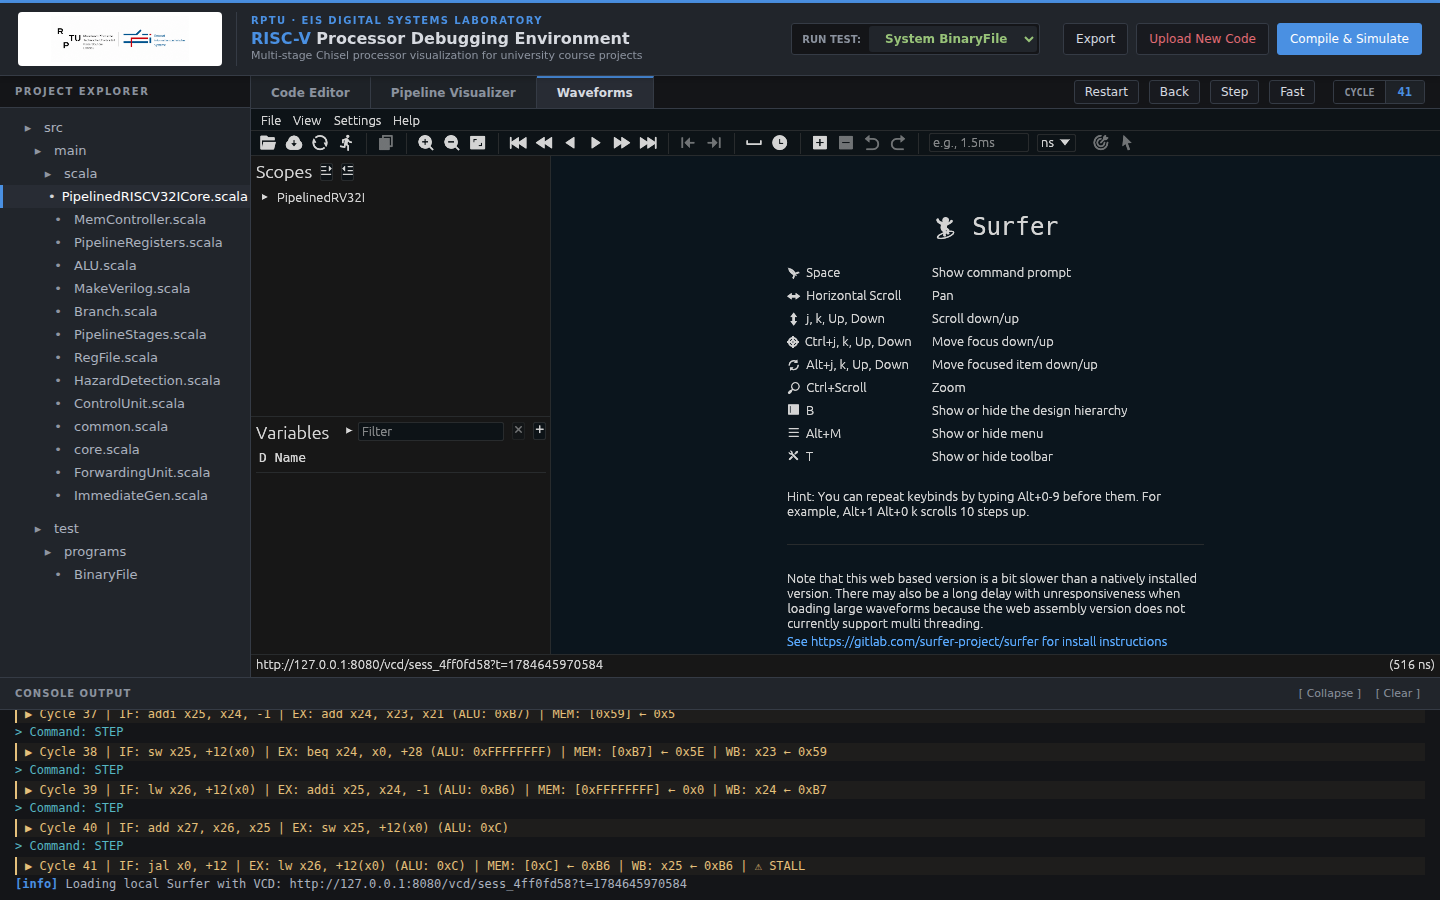
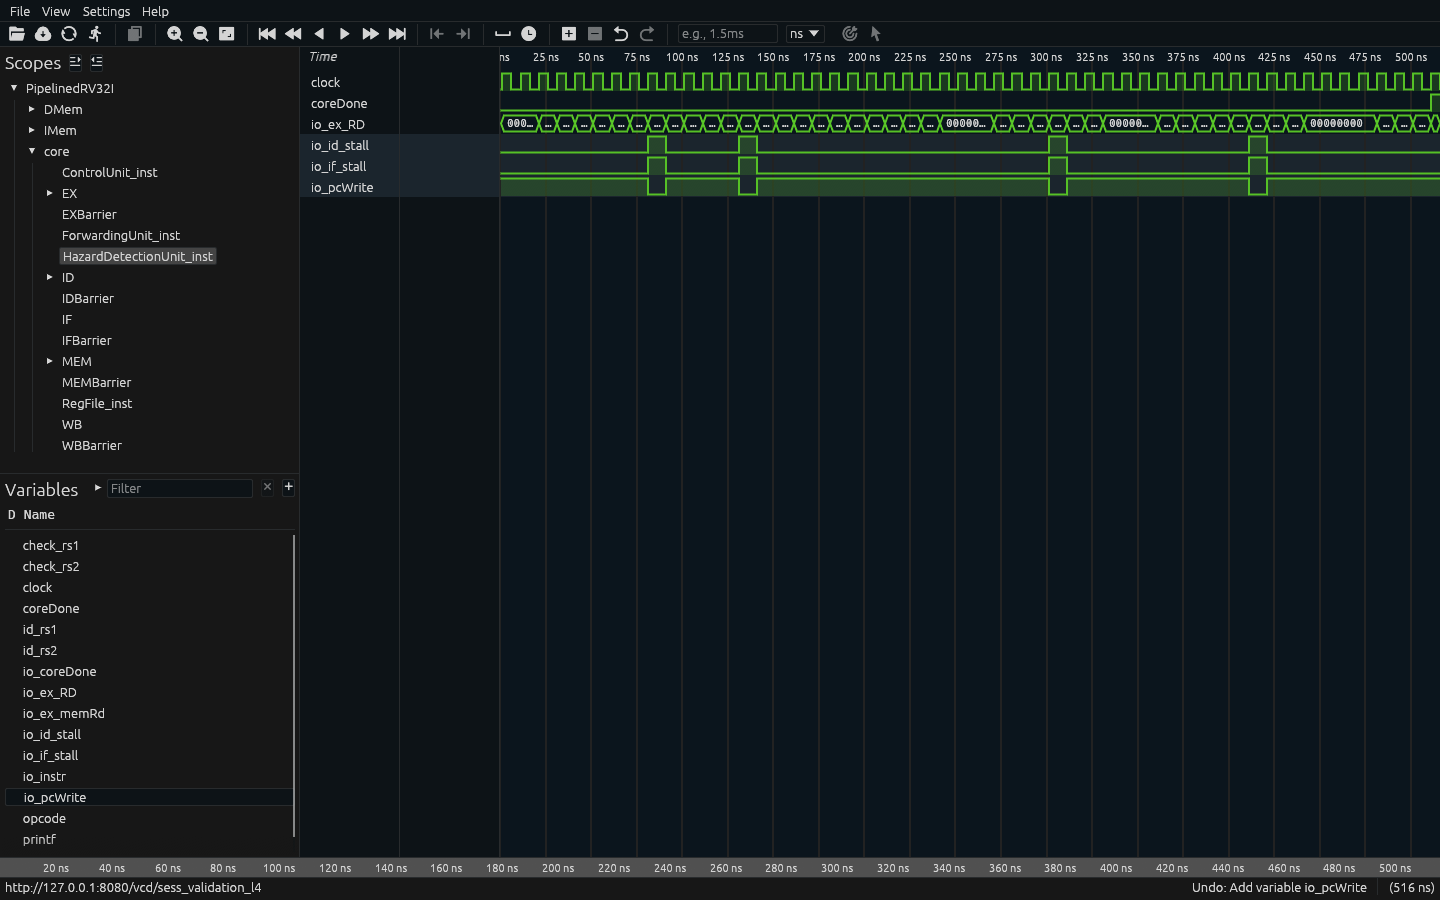
academic format, waveform, corrections on texts

diff --git a/RISCV-pipeline-vizualizer/docs/report/latex/main.tex b/RISCV-pipeline-vizualizer/docs/report/latex/main.tex
@@ -45,14 +45,14 @@
 \pagestyle{fancy}
 \fancyhf{}
 \fancyhead[L]{RISC-V Pipeline Visualizer}
-\fancyhead[R]{Technical Report}
+\fancyhead[R]{Master Project}
 \fancyfoot[C]{\thepage}
 \renewcommand{\headrulewidth}{0.3pt}
 
 \hypersetup{
   pdftitle={Architecture and Operation of a Web-Based RISC-V Pipeline Debugging Environment},
-  pdfauthor={[Author name]},
-  pdfsubject={RISC-V pipeline teaching and debugging environment},
+  pdfauthor={Joel Agustín Sanchez},
+  pdfsubject={Master Project - RISC-V Pipeline Visualizer},
   pdfkeywords={RISC-V, Chisel, pipeline, visualization, teaching}
 }
 
@@ -66,14 +66,17 @@
   \vspace{1.8cm}
   {\huge\bfseries Architecture and Operation of a Web-Based RISC-V Pipeline Debugging Environment\par}
   \vspace{1cm}
-  {\Large Technical Report\par}
+  {\Large Master Project\par}
   \vfill
-  \begin{tabular}{@{}rl@{}}
-    Author: & [Author name] \\
-    Supervisor: & [Supervisor name] \\
-    Chair / Department: & [Chair or department] \\
-    Institution: & RPTU Kaiserslautern-Landau \\
-    Date: & [Submission date]
+  \begin{tabular}{@{}r@{\hspace{1em}}l@{}}
+    Author: & Joel Agustín Sanchez \\
+    Supervisor: & \href{https://eit.rptu.de/fgs/eis/people/jauch}{M.Sc. Tobias Jauch} (PhD student) \\
+    Chair: & \href{https://eit.rptu.de/fgs/eis}{\begin{tabular}[t]{@{}l@{}}
+      LEHRSTUHL FÜR ENTWURF \\
+      INFORMATIONSTECHNISCHER SYSTEME \\
+      CHAIR OF ELECTRONIC DESIGN AUTOMATION
+    \end{tabular}} \\
+    Submission date: & 23 July 2026
   \end{tabular}
   \vfill
 \end{titlepage}
@@ -168,7 +171,7 @@ The system has three cooperating layers, summarized in Figure~\ref{fig:architect
 
 \begin{figure}[tb]
   \centering
-  \includegraphics[width=\textwidth,trim=8bp 620bp 8bp 8bp,clip]{system_architecture.pdf}
+  \includegraphics[width=\textwidth,trim=10bp 386bp 10bp 10bp,clip]{system_architecture.pdf}
   \caption{System architecture. HTTP handles upload, compilation, static content, and VCD delivery; Socket.IO carries cycle commands and updates; a per-session testbench process runs the uploaded processor.}
   \label{fig:architecture}
 \end{figure}
@@ -185,7 +188,7 @@ The visual model follows the classic IF, ID, EX, MEM, and WB organization shown 
 
 \begin{figure}[tb]
   \centering
-  \includegraphics[width=\textwidth,trim=8bp 670bp 8bp 8bp,clip]{five_stage_pipeline.pdf}
+  \includegraphics[width=\textwidth,trim=8bp 677bp 8bp 8bp,clip]{five_stage_pipeline.pdf}
   \caption{Simplified five-stage datapath and hazard paths. Dashed paths represent forwarding; control and load-use decisions can redirect, hold, flush, or inject a bubble.}
   \label{fig:pipeline}
 \end{figure}
@@ -202,14 +205,21 @@ The complete request sequence is shown in Figure~\ref{fig:sequence}. Upload and 
 
 \begin{figure}[tb]
   \centering
-  \includegraphics[width=\textwidth,trim=30bp 428bp 17bp 7bp,clip]{execution_sequence.pdf}
+  \includegraphics[width=\textwidth,trim=24bp 487bp 20bp 7bp,clip]{execution_sequence.pdf}
   \caption{Execution sequence from source selection to a rendered cycle. The controlled testbench advances the clock and returns one JSON snapshot for each step command.}
   \label{fig:sequence}
 \end{figure}
 
 Path filtering at upload time accepts project material required for the exercise and rejects unrelated traversal. During workspace preparation, browser-visible messages refer to \texttt{[WORKSPACE]} or logical repository locations so that local account and machine paths do not leak into the interface. Server diagnostics may retain absolute paths when needed for administration. A failed Scala compilation still returns its explanation and relevant SBT output after sanitization.
 
-The testbench first performs the existing headless run that produces a VCD. It then starts the interactive TCP loop, resets the design, and emits the initial state. On each \texttt{step} command it advances the clock, samples the debug bundle, serializes the fields, and sends one line of JSON. The Python service decodes instruction words for presentation, appends the snapshot to session history, and emits an update. This protocol keeps the simulator deterministic from the user's perspective: one accepted command corresponds to one displayed cycle.
+The testbench first performs the existing headless run that produces a VCD. The service delivers this file through a session-specific endpoint, allowing the bundled Surfer viewer to complement the simplified pipeline display with signal-level timing, as shown in Figure~\ref{fig:waveform}. The testbench then starts the interactive TCP loop, resets the design, and emits the initial state. On each \texttt{step} command it advances the clock, samples the debug bundle, serializes the fields, and sends one line of JSON. The Python service decodes instruction words for presentation, appends the snapshot to session history, and emits an update. This protocol keeps the simulator deterministic from the user's perspective: one accepted command corresponds to one displayed cycle.
+
+\begin{figure}[tbp]
+  \centering
+  \includegraphics[width=0.88\textwidth]{waveform_view.png}
+  \caption{Generated Level~4 waveform displayed in the bundled Surfer viewer. The selected clock and processor debug signals complement the cycle-level pipeline representation.}
+  \label{fig:waveform}
+\end{figure}
 
 The current design deliberately preserves the supplied simulation structure and VCD limits. It also preserves processor semantics; forwarding, stalls, branches, memory behavior, and instruction coverage are properties of the uploaded course core and controlled infrastructure, not of the web interface.
 
@@ -219,53 +229,32 @@ Final regression tests exercised uploads for Levels~1 through~4 and completed re
 
 Figure~\ref{fig:hazards} isolates the mechanisms most useful in a teaching discussion. In the forwarding example, both EX operand selectors are active for the dependent arithmetic instruction at cycle~3. At Level~3 cycle~7, a taken \texttt{beq} in EX redirects the fetch address and asserts the flush. At Level~4 cycle~41, a load-use dependency disables the program-counter write, holds IF/ID, and inserts a bubble.
 
-\begin{figure}[p]
+\begin{figure}[tbp]
   \centering
-  \begin{subfigure}{0.82\textwidth}
+  \begin{subfigure}[t]{0.48\textwidth}
     \centering
-    \includegraphics[width=\linewidth,height=0.19\textheight,keepaspectratio]{level2_forwarding_cycle_03.png}
+    \includegraphics[width=\linewidth,trim=188bp 168bp 0bp 83bp,clip]{level2_forwarding_cycle_03.png}
     \caption{Level~2 forwarding, cycle~3.}
-  \end{subfigure}\par\medskip
-  \begin{subfigure}{0.82\textwidth}
+  \end{subfigure}\hfill
+  \begin{subfigure}[t]{0.48\textwidth}
     \centering
-    \includegraphics[width=\linewidth,height=0.19\textheight,keepaspectratio]{level3_branch_flush_cycle_07.png}
+    \includegraphics[width=\linewidth]{level3_branch_flush_cycle_07.png}
     \caption{Level~3 taken branch and flush, cycle~7.}
   \end{subfigure}\par\medskip
-  \begin{subfigure}{0.82\textwidth}
+  \begin{subfigure}[t]{0.48\textwidth}
     \centering
-    \includegraphics[width=\linewidth,height=0.19\textheight,keepaspectratio]{level4_load_use_stall_cycle_41.png}
+    \includegraphics[width=\linewidth]{level4_load_use_stall_cycle_41.png}
     \caption{Level~4 load-use stall, cycle~41.}
   \end{subfigure}
-  \caption{Representative hazard behavior from the system BinaryFile for each detected level. The screenshots were captured at a 1440 by 900 CSS-pixel viewport from the working tree based on revision \texttt{ff31871}.}
+  \caption{Representative hazard behavior: data forwarding, control-hazard flushing, and a load-use stall.}
   \label{fig:hazards}
 \end{figure}
 
-The regression also checked the complete browser path: the landing page loaded, Socket.IO connected, hazard rendering remained active, the toolbar stayed aligned after removal of the nonfunctional Datapath control, and the browser made no request for the removed \texttt{/workspace} route or obsolete \texttt{client.js}. Successful and intentionally failed compilations did not expose an absolute user path. The Level~4 VCD was served successfully and loaded by the bundled Surfer application.
+Together, the panels show that the same stage view can explain three distinct responses to dependency and control-flow conditions. Forwarding changes the EX operand source without interrupting instruction issue. A taken branch redirects fetch and invalidates younger fall-through instructions. The load-use case instead holds the front of the pipeline for one cycle because the required memory value is not yet available. The register panel and highlighted paths connect each control decision to the architectural state observed by the student.
 
 \section{Maintenance and future development}\label{sec:maintenance}
 
-The repository separates entry, orchestration, presentation, simulation, and teaching material closely enough that most changes have a clear starting point. Table~\ref{tab:implementation-map} gives the principal extension points.
-
-\begin{table}[tb]
-\centering
-\caption{Principal implementation and maintenance files.}
-\label{tab:implementation-map}
-\small
-\begin{tabularx}{\textwidth}{@{}p{0.39\textwidth}Y@{}}
-\toprule
-Path & Responsibility \\
-\midrule
-\path{web_demo.py} & Local entry point and browser-address reporting. \\
-\path{web_visualizer/server.py} & HTTP/Socket.IO API, filtering, detection, staging, process launch, history, and VCD delivery. \\
-\path{web_visualizer/bridge.py} & TCP command and snapshot exchange with the Scala testbench. \\
-\path{web_visualizer/templates/index.html} & Interface, editor, controls, rendering logic, and student terminology. \\
-\path{web_visualizer/static/pipeline.svg} & Visual structure and element identifiers used by the renderer. \\
-\path{infrastructure_template/src/test/scala/LivePipelineTest.scala} & Controlled headless and interactive chiseltest behavior, snapshot schema, and VCD production. \\
-\path{course_material/} & Reference sources for the staged course levels. \\
-\path{infrastructure_template/system_tests/} & Level-specific hexadecimal BinaryFiles and test inputs. \\
-\bottomrule
-\end{tabularx}
-\end{table}
+The repository separates entry, orchestration, presentation, simulation, and teaching material closely enough that most changes have a clear starting point. The principal files and directories are summarized in Appendix~\ref{app:implementation-map}; the most important boundary is between the Python session service and the Scala testbench.
 
 Changes crossing the Python/Scala boundary require particular care: a renamed JSON field must be updated in the testbench, bridge processing, history, and browser renderer. A new visible pipeline signal normally requires a Chisel debug output, snapshot serialization, server enrichment if needed, and a matching SVG/JavaScript binding. Changes to level detection should be tested against representative source trees and remain a server decision.
 
@@ -279,8 +268,32 @@ The RISC-V Pipeline Visualizer makes a student's clocked processor behavior insp
 \bibliography{references}
 \addcontentsline{toc}{section}{References}
 
+\clearpage
 \appendix
-\section{Validation boundary}
+\section{Implementation map}\label{app:implementation-map}
+
+\begin{center}
+\centering
+\captionof{table}{Principal implementation and maintenance files.}
+\label{tab:implementation-map}
+\footnotesize
+\begin{tabularx}{\textwidth}{@{}>{\raggedright\arraybackslash}p{0.43\textwidth}Y@{}}
+\toprule
+Path & Responsibility \\
+\midrule
+\path{web_demo.py} & Local entry point and browser-address reporting. \\
+\path{web_visualizer/server.py} & HTTP/Socket.IO API, filtering, detection, staging, process launch, history, and VCD delivery. \\
+\path{web_visualizer/bridge.py} & TCP command and snapshot exchange with the Scala testbench. \\
+\path{web_visualizer/templates/index.html} & Interface, editor, controls, rendering logic, and student terminology. \\
+\path{web_visualizer/static/pipeline.svg} & Visual structure and element identifiers used by the renderer. \\
+\path{infrastructure_template/src/test/scala/LivePipelineTest.scala} & Controlled headless and interactive chiseltest behavior, snapshot schema, and VCD production. \\
+\path{course_material/} & Reference sources for the staged course levels. \\
+\path{infrastructure_template/system_tests/} & Level-specific hexadecimal BinaryFiles and test inputs. \\
+\bottomrule
+\end{tabularx}
+\end{center}
+
+\section{Scope of validation}
 
 The final regression used the supplied system BinaryFiles and completed all four detected course levels. It checked shell and Python syntax, setup and startup from outside the repository, upload and detection, compilation without a client-supplied level, interactive stepping, pipeline and register rendering, hazard overlays, sanitized browser messages, VCD delivery, and Surfer loading. Processor ISA conformance beyond the supplied programs and existing Scala tests was not re-certified. Multi-user load, malicious uploads, and public deployment were not tested because they are outside the trusted local teaching scope.
 

diff --git a/RISCV-pipeline-vizualizer/docs/report/assets/source/validate_sessions.py b/RISCV-pipeline-vizualizer/docs/report/assets/source/validate_sessions.py
@@ -22,7 +22,8 @@ def find_project_root() -> Path:
 
 
 PROJECT_ROOT = find_project_root()
-DATA_DIR = PROJECT_ROOT / "docs" / "report" / "assets" / "data"
+SUMMARY_DIR = PROJECT_ROOT / "docs" / "report" / "assets" / "data"
+RAW_DATA_DIR = PROJECT_ROOT / "docs" / "report" / "internal" / "validation-data"
 LEVEL_SOURCES = {
     1: PROJECT_ROOT / "course_material" / "task3_level1" / "solution" / "src",
     2: PROJECT_ROOT / "course_material" / "task4_level2" / "solution" / "src",
@@ -106,8 +107,8 @@ def run_level(base_url: str, level: int, max_cycles: int) -> tuple[list[dict], d
 
 
 def write_outputs(level: int, snapshots: list[dict], summary: dict) -> None:
-    DATA_DIR.mkdir(parents=True, exist_ok=True)
-    (DATA_DIR / f"level{level}_snapshots.json").write_text(
+    RAW_DATA_DIR.mkdir(parents=True, exist_ok=True)
+    (RAW_DATA_DIR / f"level{level}_snapshots.json").write_text(
         json.dumps({"summary": summary, "snapshots": snapshots}, indent=2) + "\n"
     )
 
@@ -115,7 +116,7 @@ def write_outputs(level: int, snapshots: list[dict], summary: dict) -> None:
         "cycle", "core_done", "if_pc", "if_asm", "id_asm", "ex_asm", "mem_asm", "wb_asm",
         "fwd_a", "fwd_b", "if_stall", "id_stall", "flush", "wb_we", "wb_rd", "wb_wdata",
     ]
-    with (DATA_DIR / f"level{level}_cycles.csv").open("w", newline="") as handle:
+    with (RAW_DATA_DIR / f"level{level}_cycles.csv").open("w", newline="") as handle:
         writer = csv.DictWriter(handle, fieldnames=fields)
         writer.writeheader()
         for packet in snapshots:
@@ -156,7 +157,8 @@ def main() -> None:
         write_outputs(level, snapshots, summary)
         summaries.append(summary)
         print(json.dumps(summary, indent=2))
-    (DATA_DIR / "validation_summary.json").write_text(json.dumps(summaries, indent=2) + "\n")
+    SUMMARY_DIR.mkdir(parents=True, exist_ok=True)
+    (SUMMARY_DIR / "validation_summary.json").write_text(json.dumps(summaries, indent=2) + "\n")
     print(f"Validated {len(summaries)} level(s) in {time.monotonic() - started:.1f} seconds")
 
 

diff --git a/RISCV-pipeline-vizualizer/docs/report/assets/source/plot_event_counts.py b/RISCV-pipeline-vizualizer/docs/report/assets/source/plot_event_counts.py
@@ -20,12 +20,13 @@ def find_project_root() -> Path:
 
 ROOT = find_project_root()
 DATA = ROOT / "docs" / "report" / "assets" / "data"
+RAW_DATA = ROOT / "docs" / "report" / "internal" / "validation-data"
 GRAPHS = ROOT / "docs" / "report" / "assets" / "graphs"
 
 
 summaries = []
 for level in range(1, 5):
-    payload = json.loads((DATA / f"level{level}_snapshots.json").read_text())
+    payload = json.loads((RAW_DATA / f"level{level}_snapshots.json").read_text())
     summaries.append(payload["summary"])
 
 (DATA / "validation_summary.json").write_text(json.dumps(summaries, indent=2) + "\n")

diff --git a/RISCV-pipeline-vizualizer/docs/report/RISCV_PIPELINE_VISUALIZER_REPORT.md b/RISCV-pipeline-vizualizer/docs/report/RISCV_PIPELINE_VISUALIZER_REPORT.md
@@ -1,5 +1,15 @@
 # Architecture and Operation of a Web-Based RISC-V Pipeline Debugging Environment
 
+**Master Project**
+
+**Author:** Joel Agustín Sanchez
+
+**Supervisor:** [M.Sc. Tobias Jauch](https://eit.rptu.de/fgs/eis/people/jauch) (PhD student)
+
+**Chair:** [LEHRSTUHL FÜR ENTWURF INFORMATIONSTECHNISCHER SYSTEME / CHAIR OF ELECTRONIC DESIGN AUTOMATION](https://eit.rptu.de/fgs/eis)
+
+**Submission date:** 23 July 2026
+
 ## Abstract
 
 This report presents a browser-based environment for teaching and debugging a five-stage RISC-V processor written in Chisel. The application connects an editable view of a student's processor sources to a controlled chiseltest simulation and displays the resulting instruction flow, registers, hazard signals, logs, and waveform data. A Python service manages uploads and isolated session workspaces, while a small TCP bridge exchanges cycle commands and JSON snapshots with the Scala testbench. The design gives students a concrete view of forwarding, stalls, and control-hazard recovery without replacing the processor implementation that they are expected to develop. The report explains installation, classroom use, system structure, representative behavior, and the principal maintenance points. Validation covered all four course levels on Ubuntu 24.04 under WSL2 with Python 3.12, JDK 17, and SBT 1.9.7. The current deployment target is a trusted local teaching environment.
@@ -95,7 +105,9 @@ The complete request sequence is shown below. Upload and compilation use HTTP be
 
 Path filtering at upload time accepts the project material required for the exercise and rejects unrelated traversal. During workspace preparation, browser-visible messages refer to `[WORKSPACE]` or logical repository locations so that local account and machine paths do not leak into the interface. Server diagnostics may retain absolute paths when they are needed for administration. A failed Scala compilation still returns its explanation and the relevant SBT output after sanitization.
 
-The testbench first performs the existing headless run that produces a VCD. It then starts the interactive TCP loop, resets the design, and emits the initial state. On each `step` command it advances the clock, samples the debug bundle, serializes the fields, and sends one line of JSON. The Python service decodes the instruction words for presentation, adds the snapshot to the session history, and emits an update. This protocol keeps the simulator deterministic from the user's perspective: one accepted command corresponds to one displayed cycle.
+The testbench first performs the existing headless run that produces a VCD. The service delivers this file through a session-specific endpoint, allowing the bundled Surfer viewer to complement the simplified pipeline display with signal-level timing. It then starts the interactive TCP loop, resets the design, and emits the initial state. On each `step` command it advances the clock, samples the debug bundle, serializes the fields, and sends one line of JSON. The Python service decodes the instruction words for presentation, adds the snapshot to the session history, and emits an update. This protocol keeps the simulator deterministic from the user's perspective: one accepted command corresponds to one displayed cycle.
+
+![Generated Level 4 waveform displayed in the bundled Surfer viewer. The selected clock and processor debug signals complement the cycle-level pipeline representation.](assets/screenshots/waveform_view.png)
 
 The current design deliberately preserves the supplied simulation structure and VCD limits. It also preserves processor semantics; forwarding, stalls, branches, memory behavior, and instruction coverage are properties of the uploaded course core and its controlled infrastructure, not of the web interface.
 
@@ -109,22 +121,11 @@ The three panels below isolate the mechanisms most useful in a teaching discussi
 | --- | --- | --- |
 | ![Level 2, cycle 3](assets/screenshots/level2_forwarding_cycle_03.png) | ![Level 3, cycle 7](assets/screenshots/level3_branch_flush_cycle_07.png) | ![Level 4, cycle 41](assets/screenshots/level4_load_use_stall_cycle_41.png) |
 
-The regression also checked the complete browser path: the landing page loaded, Socket.IO connected, hazard rendering remained active, the toolbar remained aligned after removing the nonfunctional Datapath control, and the browser made no request for the removed `/workspace` route or obsolete `client.js`. Successful and intentionally failed compilations did not expose an absolute user path. The Level 4 VCD was served successfully and loaded by the bundled Surfer application [7].
+Together, the panels show three distinct responses to dependency and control-flow conditions. Forwarding changes the EX operand source without interrupting instruction issue. A taken branch redirects fetch and invalidates younger fall-through instructions. The load-use case instead holds the front of the pipeline because the required memory value is not yet available. The register panel and highlighted paths connect each control decision to the architectural state observed by the student.
 
 ## 8. Maintenance and future development
 
-The repository separates entry, orchestration, presentation, simulation, and teaching material closely enough that most changes have a clear starting point.
-
-| Path | Maintenance responsibility |
-| --- | --- |
-| `web_demo.py` | Local application entry point and browser-address reporting. |
-| `web_visualizer/server.py` | HTTP/Socket.IO API, upload filtering, level detection, session staging, process launch, history, and VCD delivery. |
-| `web_visualizer/bridge.py` | TCP command/snapshot exchange with the live Scala testbench. |
-| `web_visualizer/templates/index.html` | Browser interface, editor, controls, rendering logic, and student-facing terminology. |
-| `web_visualizer/static/pipeline.svg` | Editable visual structure and element identifiers used by the renderer. |
-| `infrastructure_template/src/test/scala/LivePipelineTest.scala` | Controlled headless and interactive chiseltest behavior, snapshot schema, and VCD production. |
-| `course_material/` | Reference sources used for the staged course levels. |
-| `infrastructure_template/system_tests/` | Level-specific hexadecimal BinaryFiles and test inputs. |
+The repository separates entry, orchestration, presentation, simulation, and teaching material closely enough that most changes have a clear starting point. A compact implementation map is retained in Appendix A; the most important maintenance boundary is between the Python session service and the Scala testbench.
 
 Changes that cross the Python/Scala boundary require particular care: a renamed JSON field must be updated in the testbench, bridge processing, history, and browser renderer. A new visible pipeline signal normally requires a Chisel debug output, snapshot serialization, server enrichment if needed, and a matching SVG/JavaScript binding. Changes to level detection should be tested against representative source trees and should remain a server decision.
 
@@ -144,6 +145,19 @@ The RISC-V Pipeline Visualizer makes a student's clocked processor behavior insp
 6. Socket.IO, *Introduction*. <https://socket.io/docs/v4/>
 7. Surfer Project, *Surfer waveform viewer*. <https://gitlab.com/surfer-project/surfer>
 
-## Appendix A. Validation boundary
+## Appendix A. Implementation map
+
+| Path | Maintenance responsibility |
+| --- | --- |
+| `web_demo.py` | Local application entry point and browser-address reporting. |
+| `web_visualizer/server.py` | HTTP/Socket.IO API, upload filtering, level detection, session staging, process launch, history, and VCD delivery. |
+| `web_visualizer/bridge.py` | TCP command/snapshot exchange with the live Scala testbench. |
+| `web_visualizer/templates/index.html` | Browser interface, editor, controls, rendering logic, and student-facing terminology. |
+| `web_visualizer/static/pipeline.svg` | Editable visual structure and element identifiers used by the renderer. |
+| `infrastructure_template/src/test/scala/LivePipelineTest.scala` | Controlled headless and interactive chiseltest behavior, snapshot schema, and VCD production. |
+| `course_material/` | Reference sources used for the staged course levels. |
+| `infrastructure_template/system_tests/` | Level-specific hexadecimal BinaryFiles and test inputs. |
+
+## Appendix B. Scope of validation
 
 The final regression used the supplied system BinaryFiles and completed all four detected course levels. It checked shell and Python syntax, setup and startup from outside the repository, upload and detection, compilation without a client-supplied level, interactive stepping, pipeline and register rendering, hazard overlays, sanitized browser messages, VCD delivery, and Surfer loading. Processor ISA conformance beyond the supplied programs and existing Scala tests was not re-certified. Multi-user load, malicious uploads, and public deployment were not tested because they are outside the trusted local teaching scope.

diff --git a/RISCV-pipeline-vizualizer/docs/report/internal/VISUAL_ASSET_PLAN.md b/RISCV-pipeline-vizualizer/docs/report/internal/VISUAL_ASSET_PLAN.md
@@ -1,0 +1,35 @@
+# Visual Asset Plan and Inventory
+
+## Status
+
+The planned publication assets have been generated from validated application runs. Editable sources, raw data, and capture metadata are retained so each figure can be reproduced or revised without relying on a machine-specific path.
+
+| ID | Asset | Purpose and evidence | Output | Status |
+| --- | --- | --- | --- | --- |
+| D1 | System architecture | Browser, FastAPI/Socket.IO, session workspace, SBT/chiseltest, TCP bridge, history, VCD, and Surfer | `../assets/diagrams/system_architecture.svg` and `.pdf`; source in `../assets/source/system_architecture.mmd` | Generated and source-checked |
+| D2 | Execution sequence | Upload/detection, compile, workspace staging, testbench connection, step, snapshot enrichment, and UI update | `../assets/diagrams/execution_sequence.svg` and `.pdf`; source in `../assets/source/execution_sequence.mmd` | Generated and source-checked |
+| D3 | Five-stage pipeline | IF–ID–EX–MEM–WB plus forwarding, load-use stall, and branch flush paths | `../assets/diagrams/five_stage_pipeline.svg` and `.pdf`; source in `../assets/source/five_stage_pipeline.mmd` | Generated and cross-checked against the integrated core |
+| F1 | Landing interface | Current upload page and four-step workflow at 1440×900 | `../assets/screenshots/landing_interface.png` | Captured from the running application |
+| F2 | Level 2 forwarding | Cycle 3: dependent `add x2,x1,x1` in EX with both forwarding selectors active | `../assets/screenshots/level2_forwarding_cycle_03.png` | Browser and snapshot verified |
+| F3 | Level 3 branch flush | Cycle 7: taken `beq x1,x2,+12` in EX, flush active, target `0x20` | `../assets/screenshots/level3_branch_flush_cycle_07.png` | Browser and snapshot verified |
+| F4 | Level 4 load-use stall | Cycle 41: load in EX, dependent add in ID, PC write disabled, IF/ID stalled | `../assets/screenshots/level4_load_use_stall_cycle_41.png` | Browser and snapshot verified |
+| F5 | Waveform viewer | Bundled Surfer rendering selected processor signals from the generated Level 4 VCD | `../assets/screenshots/waveform_view.png` | Included in the main report |
+| G1 | Hazard event counts | Per-run cycles with forwarding, stall, or flush active across the four representative programs | `../assets/graphs/hazard_event_counts.svg` and `.pdf` | Generated from exported snapshots |
+
+## Data and reproducibility
+
+- `../assets/source/validate_sessions.py` drives the HTTP/Socket.IO flow and exports cycle snapshots.
+- `../assets/source/plot_event_counts.py` derives the event-count table and renders the graph.
+- `validation-data/level*_cycles.csv` and `level*_snapshots.json` retain the raw per-level evidence.
+- `../assets/data/validation_summary.json` and `../assets/data/event_counts.csv` retain concise summaries.
+- `../assets/data/screenshot_metadata.json` records the repository revision, viewport, level, program, and exact cycle for each execution capture.
+
+Forwarding is counted once per cycle when either selector is nonzero; stall and flush use their respective debug flags. Counts extend from cycle 0 through the first `coreDone` snapshot. Because the programs and run lengths differ, the graph demonstrates mechanism coverage and must not be interpreted as a performance comparison between course levels.
+
+## Capture and publication rules
+
+- Keep repository-relative asset references and exclude usernames, local absolute paths, browser profiles, notifications, and student identifiers.
+- Prefer PDF in LaTeX and retain SVG for generated diagrams and graphs; use PNG only for direct browser evidence.
+- Preserve Mermaid, plotting, data, and metadata sources beside rendered outputs.
+- Confirm permission for institutional branding or named attribution before external publication.
+- Do not substitute the unrelated UVM testbench image or the stale checked-in landing screenshot for current application evidence.

diff --git a/RISCV-pipeline-vizualizer/docs/report/latex/README.md b/RISCV-pipeline-vizualizer/docs/report/latex/README.md
@@ -24,4 +24,4 @@ PUPPETEER_EXECUTABLE_PATH=/path/to/chrome \
   -b white
 ```
 
-Replace the visible author, supervisor, chair/department, and submission-date placeholders in `main.tex` before formal submission. The PDF metadata uses the same author placeholder until it is supplied.
+The title-page identity and PDF metadata are maintained in `main.tex`. Hyperlinks on the title page are deliberately rendered without colored boxes or raw URLs.